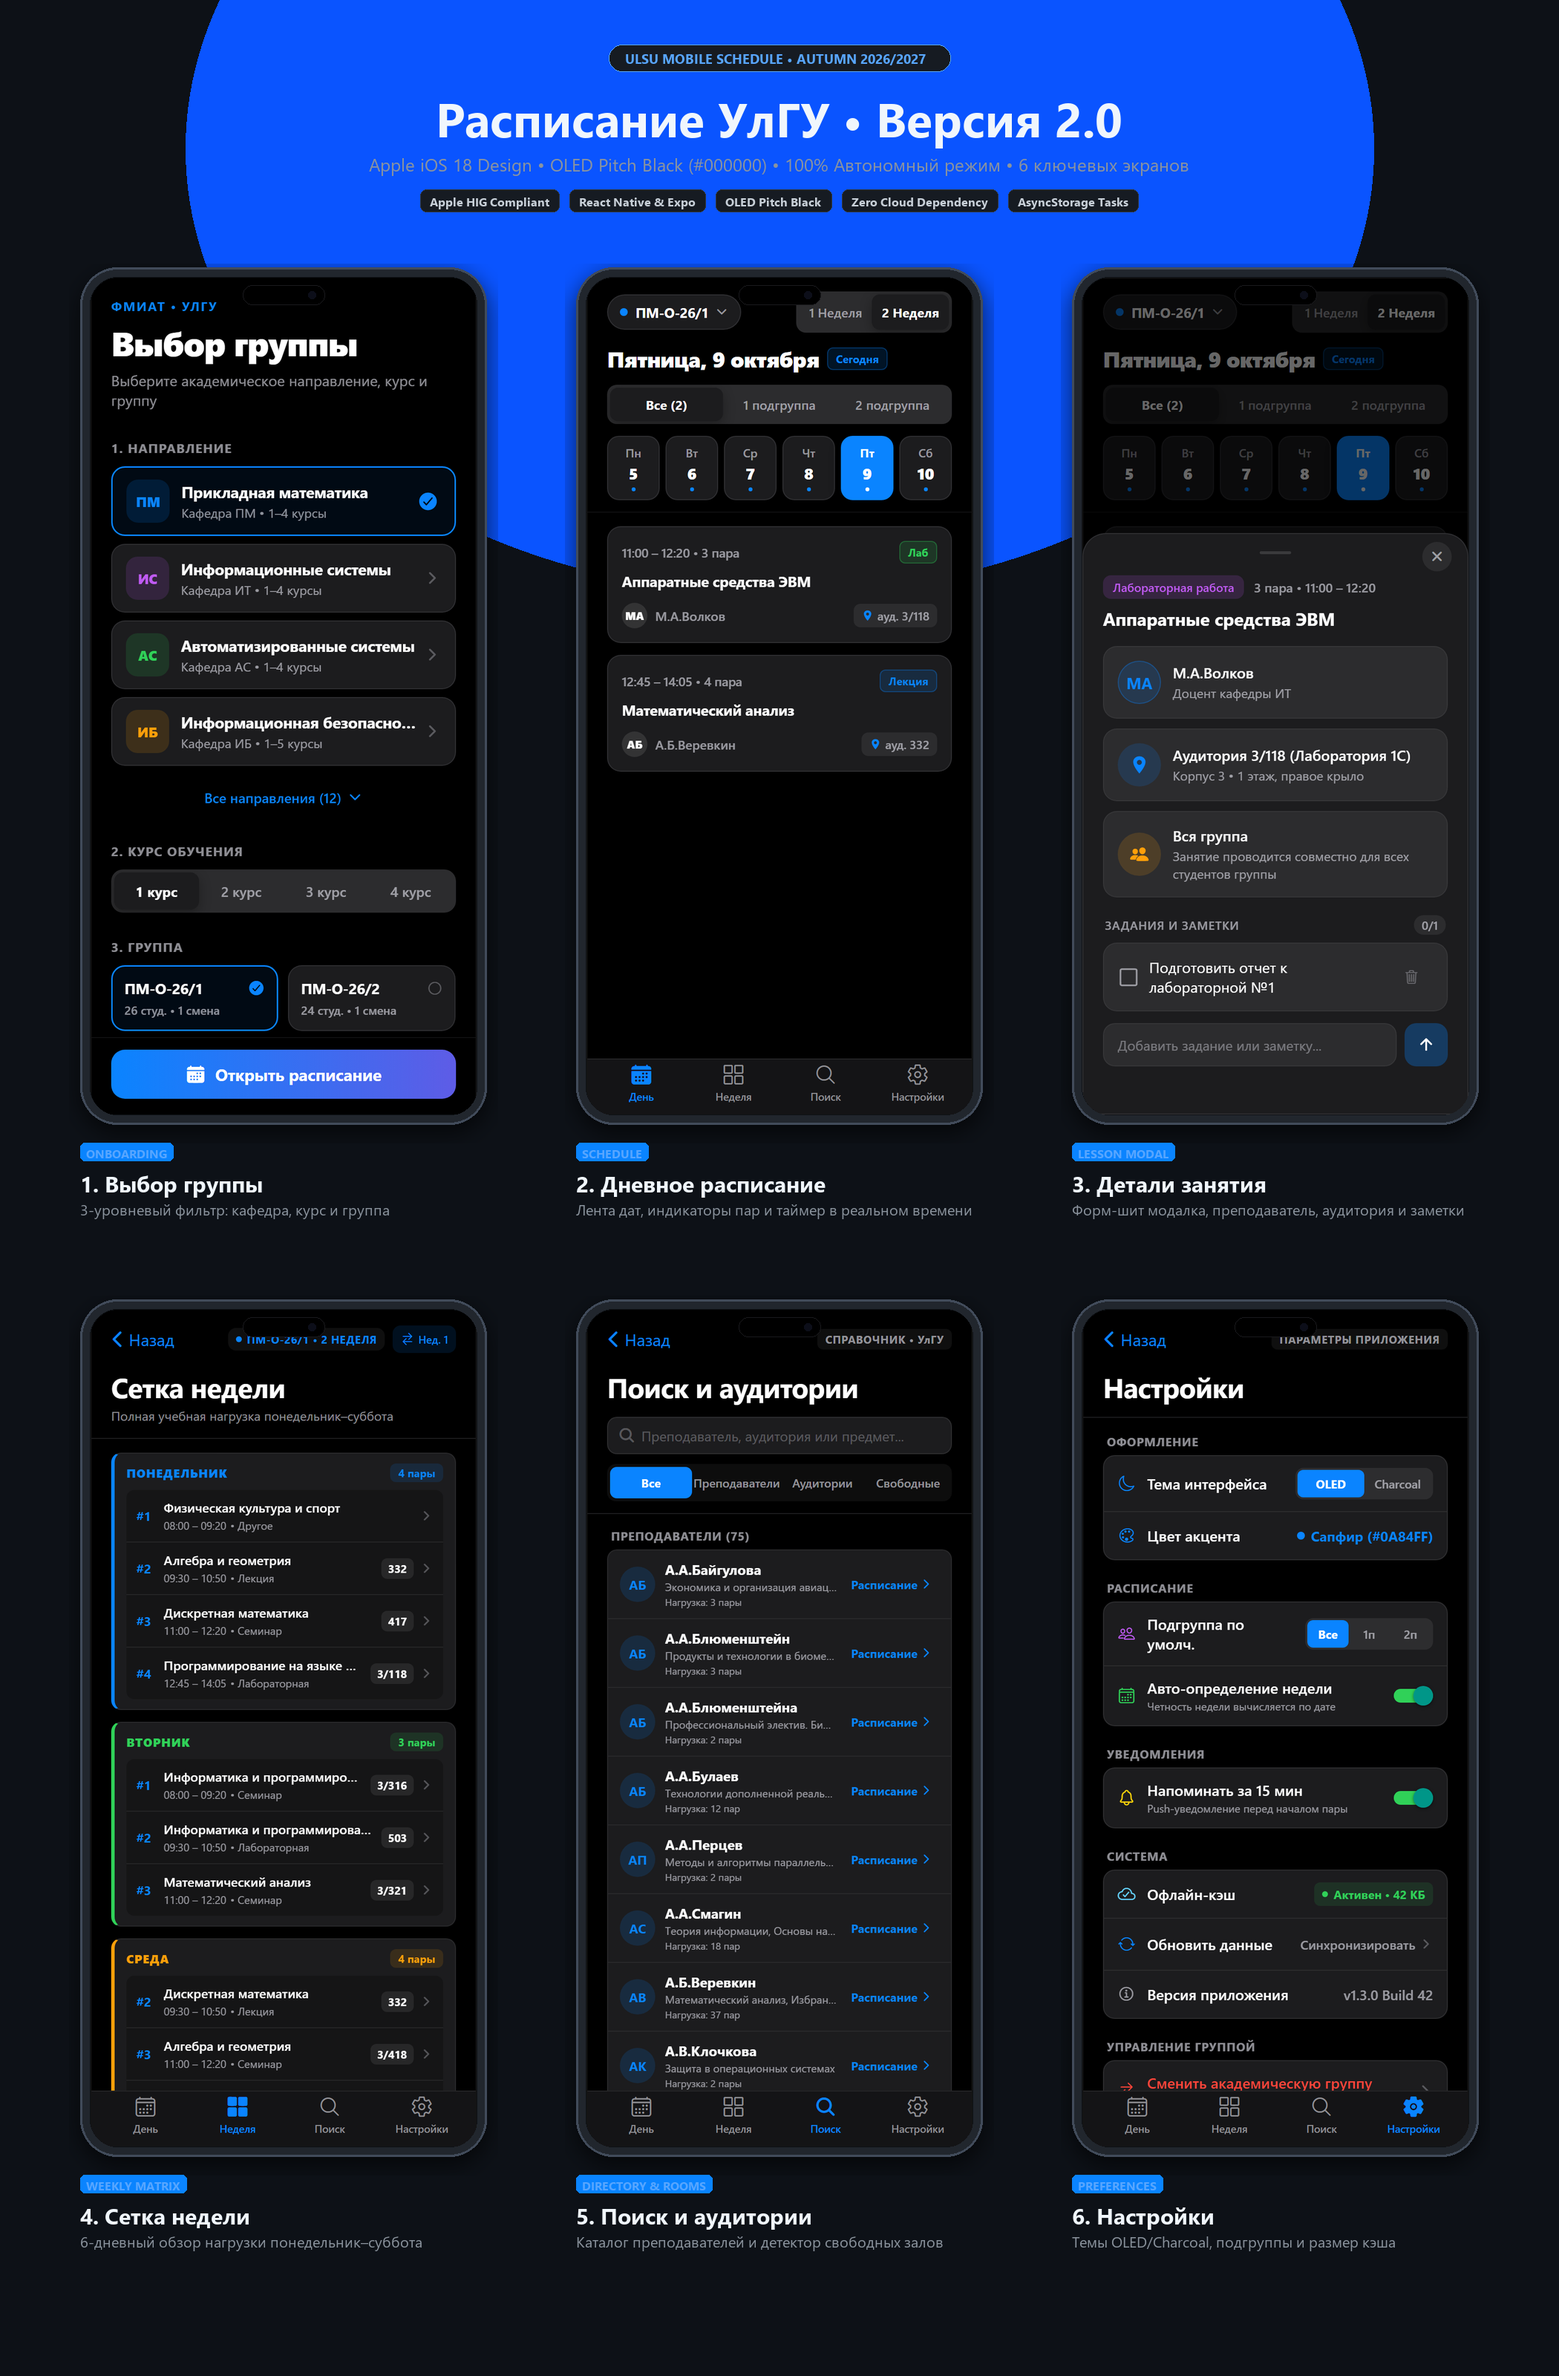
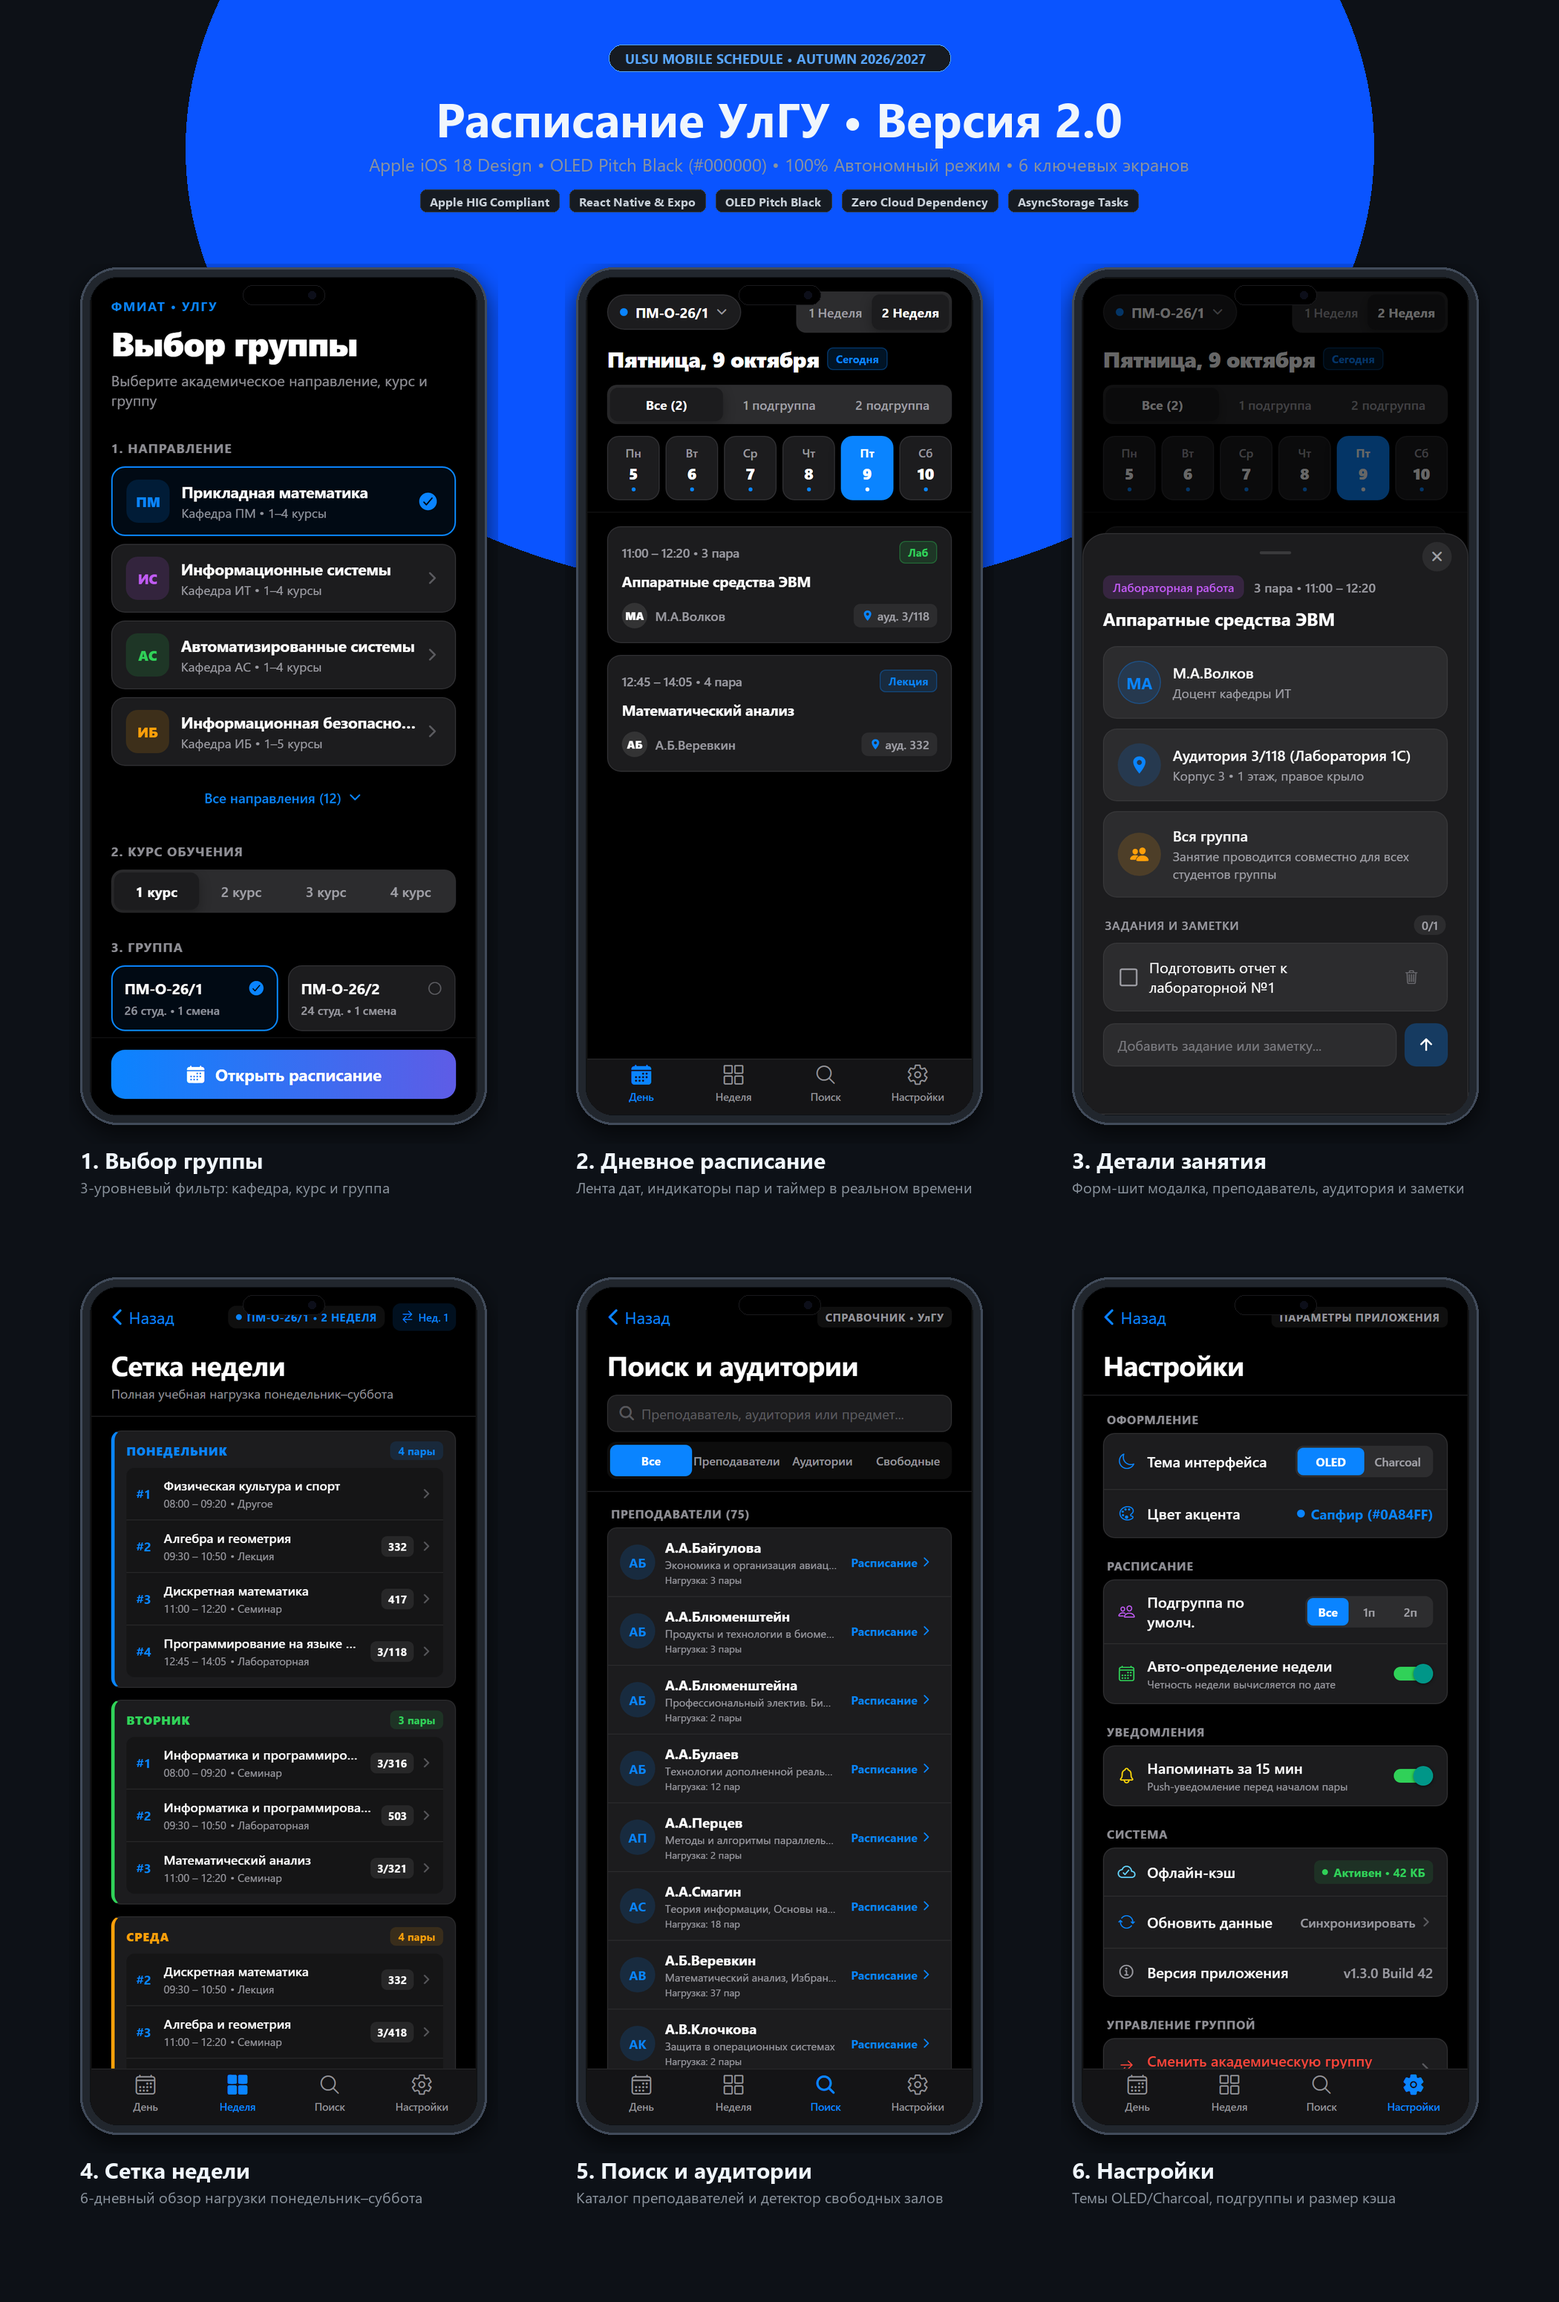
fix(showcase): remove blue tag pills under screens for clean typography and improved contrast

diff --git a/scripts/generate_showcase.py b/scripts/generate_showcase.py
@@ -5,7 +5,7 @@ OUTPUT_BANNER = os.path.abspath("assets/showcase_github.png")
 SCREENSHOTS_DIR = os.path.abspath("assets/screenshots")
 
 WIDTH = 2100
-HEIGHT = 3200
+HEIGHT = 3100
 BG_COLOR = (13, 17, 23)  # #0D1117 (GitHub Dark)
 
 SCREENS_DATA = [
@@ -194,7 +194,7 @@ def main():
     row_gap = 75
     left_margin = (WIDTH - (3 * col_width + 2 * col_gap)) // 2
     
-    row_starts_y = [360, 1750]
+    row_starts_y = [360, 1720]
     
     for idx, item in enumerate(SCREENS_DATA):
         col = idx % 3
@@ -223,20 +223,13 @@ def main():
         banner.paste(phone, (pos_x, pos_y), phone)
         
         # Caption below phone
-        caption_y = pos_y + phone.height + 24
+        caption_y = pos_y + phone.height + 26
         
-        # Tag pill
-        tag_t = item["tag"]
-        bbox_tag = draw.textbbox((0, 0), tag_t, font=font_card_tag)
-        tw = (bbox_tag[2] - bbox_tag[0]) + 16
-        draw.rounded_rectangle([(pos_x, caption_y), (pos_x + tw, caption_y + 24)], radius=6, fill=(10, 132, 255, 30), outline=(10, 132, 255), width=1)
-        draw.text((pos_x + 8, caption_y + 3), tag_t, font=font_card_tag, fill=(88, 166, 255))
-        
-        # Title
-        draw.text((pos_x, caption_y + 34), item["title"], font=font_card_title, fill=(240, 246, 252))
+        # Title (prominent and high contrast)
+        draw.text((pos_x, caption_y), item["title"], font=font_card_title, fill=(240, 246, 252))
         
         # Subtitle
-        draw.text((pos_x, caption_y + 76), item["subtitle"], font=font_card_sub, fill=(139, 148, 158))
+        draw.text((pos_x, caption_y + 44), item["subtitle"], font=font_card_sub, fill=(139, 148, 158))
 
     # Convert to RGB and save
     final_banner = banner.convert("RGB")
